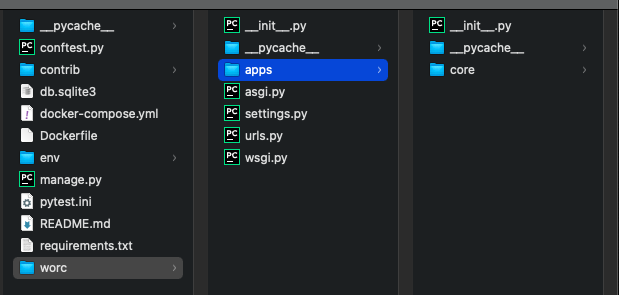
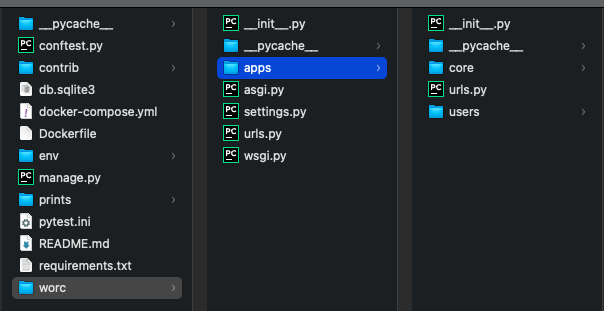
docs: update readme

Changed region(s): [[0.0, 0.0, 1.0, 0.9763], [0.2682, 0.2136, 0.298, 0.2441]]

diff --git a/README.md b/README.md
@@ -23,24 +23,35 @@ Se não tiver o docker, nem o docker compose, tem que instalar na mão. Para iss
 
 - O projeto se chama `worc` e está localizado na pasta raiz do projeto.
 - Dentro da pasta worc, eu tenho uma python package chamado `apps`. Nesta pasta, eu tenho todas as minhas apps 
-que usarei no projeto (só precisei de uma, mas poderia ter mais, dependendo do projeto).
+que usarei no projeto (só precisei de duas, mas poderia ter mais, dependendo do projeto).
 
 ![Estrutura do projeto](prints/tree.png "Estrutura do projeto")
 
 - A pasta `contrib` situada na raiz do projeto serve para fazer o "setup" do projeto. Nela,
 coloquei um script que irá gerar um arquivo com as variáveis de ambiente "padrões" para o projeto.
 
-Para esta aplicação, devido ao objetivo do teste, que era o CRUD de 1 tabela, eu optei por criar somente uma 
-app chamada core.
+Para esta aplicação, devido ao objetivo do teste, que era o CRUD de 1 tabela, eu optei por criar 2 apps: uma app core,
+que contém a tabela dos candidatos e outra app users, que contém o modelo de usuário da aplicação.
 
-Se o problema descrito pedisse para criar outras entidades, como um gestor ou empresas, provavelmente eu teria optado
-por criar outras apps (users e companies, por exemplo).
+Se o problema descrito pedisse para criar outras entidades, como empresas, tabela de ponto, tabela que mostra 
+as vagas das empresas, etc, provavelmente eu teria optado
+por criar outras apps (companies, por exemplo).
 
 ## Explicando as decisões de design adotadas para a solução do desafio e organização do projeto
 
 ** Disclaimer: Todas as decisões sempre são tomadas pensando no futuro da aplicação, quem irá dar manutenção e 
 se terá muita gente no time. Para ser mais direto, sempre tento programar de uma forma que possibilite um estagiário 
 ou um júnior colocar a mão na massa logo no primeiro dia.
+
+Na minha resulução, preferi colocar uma tabela de usuário para fazer autenticação e utilizar de recursos como JWT. Isso
+porquê tive a sensação que estaria muito "exposto" se deixasse tudo aberto rsrs. Aqui está um resumo do que pode ser 
+visto e feito dado o nível de usuário:
+
+![Usuários do projeto](prints/user-case.png "Usuários do projeto")
+
+Pra gerenciar essas permissões, eu cria uma CustomPermission do projeto. Se chama `IsAdminOrReadOnly`.
+
+![Permissao](prints/permission.png "Permissão de usuário")
 
 As variáveis de ambiente são informações sensíveis. Gosto de gerenciá-las através do python-decouple.
 Isso seria o ideal, pois, ao meu ver, torna mais fácil de manter o projeto. Se esse projeto
@@ -68,13 +79,14 @@ APIViews e ModelViewSet. Acredito ser mais fácil de entender e manter, pensando
 pessoas entrando no projeto.
 
 Fiz testes automatizados utilizando o pyest, que, na minha opinião, é a melhor ferramente que tem para testar.
-Aproveitando isso, tomei a liberdade de configurar uma action de CI aqui no github. Toda vez que eh feito um pull
+Aproveitando isso, tomei a liberdade de configurar uma action de CI aqui no github. Toda vez que é feito um pull
 request para a branch main (a branch principal), o CI executa os testes automatizados.
 
 Eu gosto sempre de criar uma pasta de testes para cada app. Nela, posso organizar em testes de models, de views, 
 de signals, etc.
 
-Caso eu tivesse mais de um model, eu teria, por exemplo, um arquivo de `test_model_modelname.py`
+Caso eu tivesse mais de um model, eu teria, por exemplo, um arquivo de `test_model_modelname.py`. Da mesma forma para
+os serializers e as views de cada entidade.
 
 ![Tests](prints/tests.png "Tests")
 
@@ -88,7 +100,9 @@ linhas do método get_queryset())
 
 ## Descreva sua API REST de forma simplificada.
 
-Minha API REST possui 2 endpoints:
+Deixei um arquivo de Insomnia na raiz do projeto que serve de exemplo de requests já prontas.
+
+Para a entidade de candidatos, tenho 2 endpoints:
 `{URL_BASE}/api/candidates/` e `{URL_BASE}/api/candidates/{id}/`.
 
 Como padrão do REST, o primeiro endpoint aceita os métodos GET e POST, como listagem e 
@@ -96,3 +110,15 @@ criação de candidatos, respectivamente.
 
 O segundo endpoint aceita os métodos GET, PUT, PATCH e DELETE, como listagem, edição, edição parcial e exclusão de um 
 candidato, respectivamente.
+
+Lembrando que todo endpoint com um método que provoque um efeito colateral na base de dados, como o POST, PUT, 
+PATCH e DELETE, deve ser feita através de um token de autenticação no cabeçalho da requisição.
+Fazemos isso com:
+`Authorization: Bearer {TOKEN}`
+
+Já na entidade de usuário, tenho 3 endpoints:
+
+    * Cadastro de usuário: POST {URL_BASE}/api/users/
+    * Pegar o token do usuário/fazer login: POST {URL_BASE}/api/token/
+    * Atualizar o token: POST {URL_BASE}/api/token/refresh/
+
